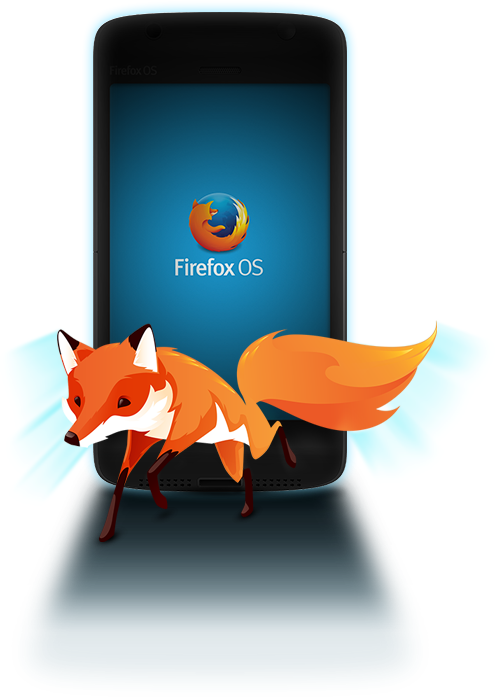
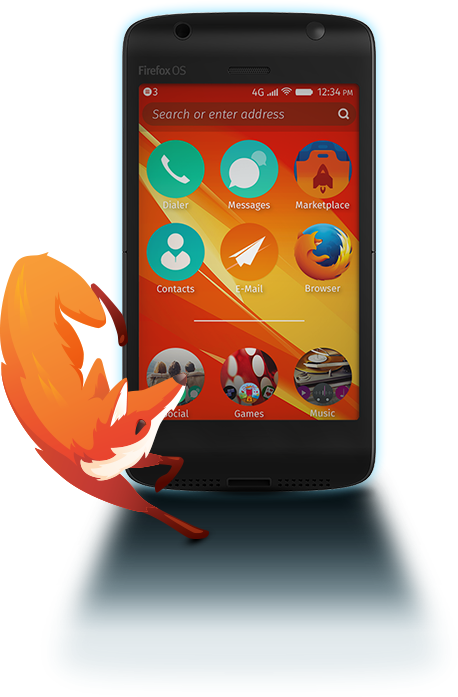
Update phone image and sizes for 2015

diff --git a/media/css/firefox/os/mwc-2015-preview.less b/media/css/firefox/os/mwc-2015-preview.less
@@ -109,8 +109,8 @@ html, body {
   position: relative;
 
   img {
-    max-width: 495px;
-    width: 495px;
+    max-width: 458px;
+    width: 458px;
     height: 697px;
     position: relative;
     z-index: 4;
@@ -118,11 +118,11 @@ html, body {
 
   .tail {
     z-index: 3;
-    left: 53%;
-    top: 115px;
+    left: 13px;
+    top: 150px;
     position: absolute;
-    width: 530px;
-    height: 244px;
+    width: 595px;
+    height: 242px;
     background: transparent url(/media/img/firefox/os/mwc-2015-preview/fox-tail.png) top left no-repeat;
     -webkit-background-size: 100% 100%;
     -moz-background-size: 100% 100%;
@@ -456,10 +456,10 @@ html, body {
     }
 
     .tail {
-      width: 366px;
-      height: 168px;
-      left: 49%;
-      top: 85px;
+      width: 441px;
+      height: 166px;
+      left: 8px;
+      top: 121px;
     }
   }
 
@@ -540,14 +540,15 @@ html, body {
 
     img {
       width: 100%;
+      max-width: 340px;
       height: auto;
     }
 
     .tail {
-      width: 318px;
-      height: 146px;
-      left: 49%;
-      top: 75px;
+      width: 364px;
+      height: 148px;
+      left: 6px;
+      top: 95px;
     }
   }
 
@@ -663,15 +664,16 @@ html, body {
     height: auto;
 
     img {
+      max-width: 340px;
       width: 100%;
       height: auto;
     }
 
     .tail {
-      width: 450px;
-      height: 207px;
-      left: 49%;
-      top: 95px;
+      width: 441px;
+      height: 166px;
+      left: 8px;
+      top: 121px;
     }
   }
 
